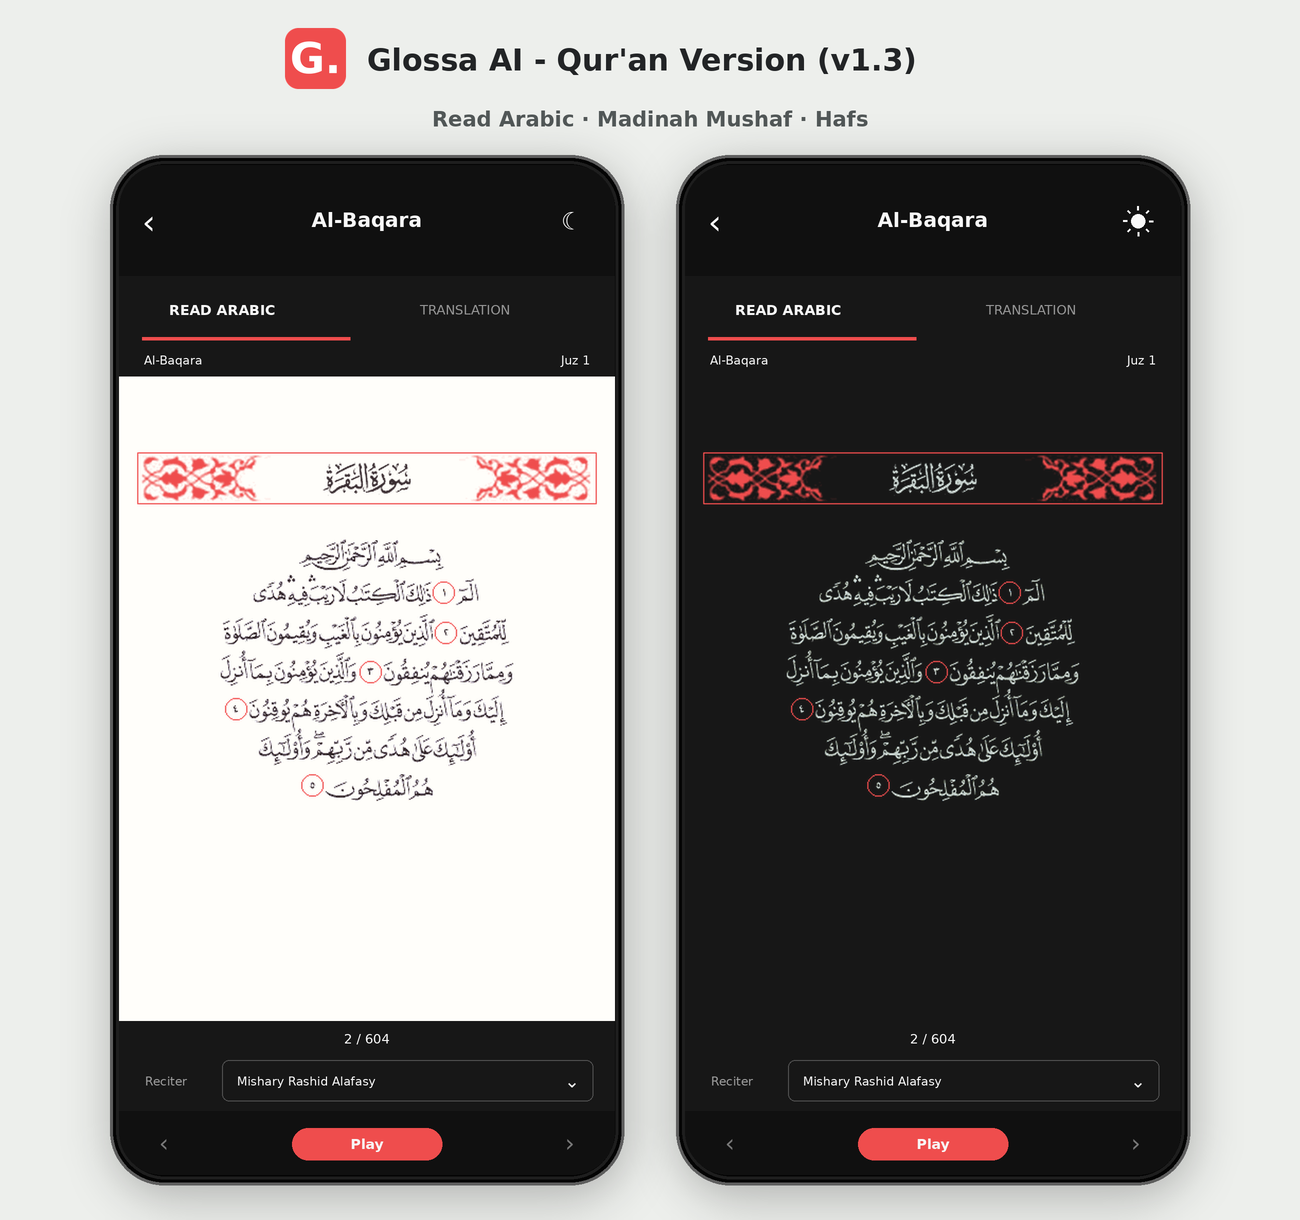
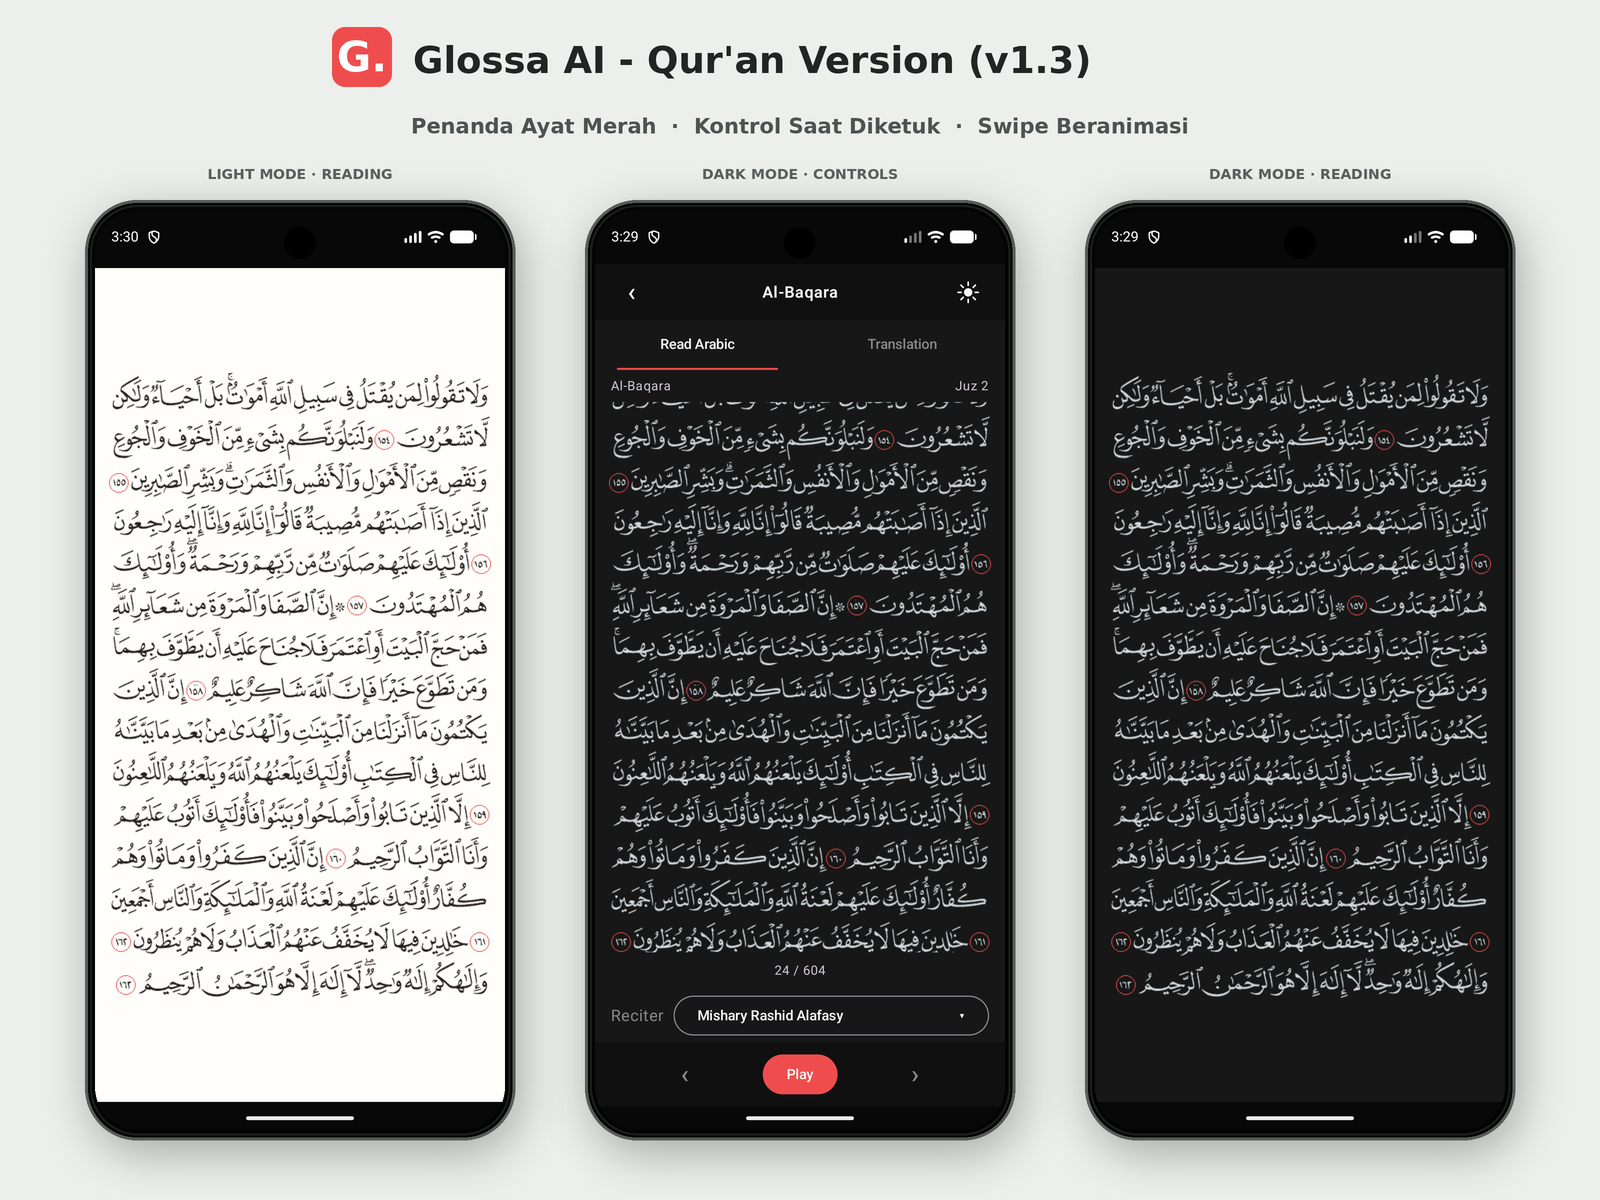
docs: show three app screenshots in v1.3 preview

diff --git a/tools/render_v1_3_preview.py b/tools/render_v1_3_preview.py
@@ -1,136 +1,89 @@
-"""Render the v1.3 light/dark reading preview from bundled app artwork.
+"""Combine three user-supplied app screenshots into the v1.3 preview.
 
-This is a visual mockup of the controls-shown state, not a device screenshot.
-The Qur'an page is composited from the same numbered PNG the app displays;
-the dark palette mirrors MushafNightPalette.convert.
+The screenshots are resized uniformly and clipped only at the rounded phone
+corners. Their Qur'an text and controls are never reconstructed or retouched.
 """
 
 from pathlib import Path
 
-import numpy as np
 from PIL import Image, ImageDraw, ImageFilter, ImageFont
 
 
 ROOT = Path(__file__).resolve().parent.parent
 DESTINATION = ROOT / "preview/glossa-quran-v1.3-preview.png"
+SOURCES = ROOT / "preview/source-v1.3"
 SCALE = 2
-WIDTH, HEIGHT = 1300, 1220
-RED = (239, 77, 77)
-SURFACE = (16, 16, 16)
-CARD = (23, 23, 23)
-WHITE = (248, 248, 248)
+WIDTH, HEIGHT = 1600, 1200
 FONT = "/usr/share/fonts/truetype/dejavu/DejaVuSans.ttf"
 BOLD = "/usr/share/fonts/truetype/dejavu/DejaVuSans-Bold.ttf"
 
 
+def at(*values):
+    return tuple(round(value * SCALE) for value in values)
+
+
 def font(size, bold=False):
-    return ImageFont.truetype(BOLD if bold else FONT, round(size * SCALE))
+    return ImageFont.truetype(BOLD if bold else FONT, size * SCALE)
 
 
-def rect(box):
-    return tuple(round(value * SCALE) for value in box)
+def text(draw, x, y, content, size, color, bold=False, anchor=None):
+    draw.text(at(x, y), content, fill=color, font=font(size, bold), anchor=anchor)
 
 
-def point(x, y):
-    return round(x * SCALE), round(y * SCALE)
+def phone(canvas, x, image_path):
+    y = 200
+    handset_width, handset_height = 430, 940
+    screen_width, screen_height = 410, 920
 
-
-def label(draw, xy, value, size, color, bold=False, anchor=None):
-    draw.text(point(*xy), value, font=font(size, bold), fill=color, anchor=anchor)
-
-
-def dark_artwork(source):
-    data = np.asarray(source.convert("RGBA")).copy()
-    rgb = data[:, :, :3].astype(np.float32)
-    red = (
-        (rgb[:, :, 0] >= 223) & (rgb[:, :, 0] <= 255)
-        & (rgb[:, :, 1] >= 61) & (rgb[:, :, 1] <= 93)
-        & (rgb[:, :, 2] >= 61) & (rgb[:, :, 2] <= 93)
-    )
-    data[:, :, :3] = np.clip(240 - .85 * rgb, 0, 255).astype(np.uint8)
-    data[red, :3] = RED
-    return Image.fromarray(data, "RGBA")
-
-
-def phone(canvas, left, night, artwork):
-    top = 155
-    screen_width, screen_height = 496, 1010
-    screen = Image.new("RGBA", point(screen_width, screen_height), CARD + (255,) if night else (255, 254, 250, 255))
-    draw = ImageDraw.Draw(screen)
-
-    # ContentScale.Fit within the reading page's horizontal and vertical padding.
-    page = dark_artwork(artwork) if night else artwork.convert("RGBA")
-    width = screen_width - 28
-    height = round(page.height * width / page.width)
-    page = page.resize(point(width, height), Image.Resampling.LANCZOS)
-    screen.alpha_composite(page, point((screen_width - width) / 2, (screen_height - height) / 2))
-
-    # Reading chrome appears over the fixed-size page after a single tap.
-    draw.rectangle(rect((0, 0, screen_width, 111)), fill=SURFACE)
-    draw.rectangle(rect((0, 111, screen_width, 211)), fill=CARD)
-    draw.rectangle(rect((0, 856, screen_width, 1010)), fill=CARD)
-    draw.rectangle(rect((0, 946, screen_width, 1010)), fill=SURFACE)
-    label(draw, (screen_width / 2, 55), "Al-Baqara", 20, WHITE, True, "mm")
-    label(draw, (30, 57), "‹", 34, WHITE, anchor="mm")
-    if night:
-        cx, cy = point(screen_width - 43, 56)
-        radius = 7 * SCALE
-        draw.ellipse((cx - radius, cy - radius, cx + radius, cy + radius), fill=WHITE)
-        for dx, dy in ((1, 0), (-1, 0), (0, 1), (0, -1), (.71, .71), (.71, -.71), (-.71, .71), (-.71, -.71)):
-            draw.line((cx + round(dx * 11 * SCALE), cy + round(dy * 11 * SCALE),
-                       cx + round(dx * 15 * SCALE), cy + round(dy * 15 * SCALE)),
-                      fill=WHITE, width=2 * SCALE)
-    else:
-        label(draw, (screen_width - 43, 56), "☾", 24, WHITE, anchor="mm")
-
-    label(draw, (103, 145), "READ ARABIC", 14, WHITE, True, "mm")
-    label(draw, (346, 145), "TRANSLATION", 13, (150, 150, 150), anchor="mm")
-    draw.rectangle(rect((23, 172, 231, 175)), fill=RED)
-    label(draw, (25, 195), "Al-Baqara", 12, WHITE, anchor="lm")
-    label(draw, (screen_width - 25, 195), "Juz 1", 12, WHITE, anchor="rm")
-
-    label(draw, (screen_width / 2, 874), "2 / 604", 13, WHITE, anchor="mm")
-    label(draw, (26, 916), "Reciter", 12, (156, 156, 156), anchor="lm")
-    draw.rounded_rectangle(rect((103, 895, 474, 936)), radius=7 * SCALE,
-                           outline=(80, 80, 80), width=SCALE)
-    label(draw, (118, 916), "Mishary Rashid Alafasy", 12, WHITE, anchor="lm")
-    label(draw, (453, 916), "⌄", 18, WHITE, anchor="mm")
-    label(draw, (45, 978), "‹", 24, (120, 120, 120), anchor="mm")
-    label(draw, (screen_width - 45, 978), "›", 24, (120, 120, 120), anchor="mm")
-    draw.rounded_rectangle(rect((173, 963, 323, 995)), radius=17 * SCALE, fill=RED)
-    label(draw, (screen_width / 2, 979), "Play", 14, WHITE, True, "mm")
-
-    # Rounded handset shell and inset display.
     shadow = Image.new("RGBA", canvas.size)
-    sd = ImageDraw.Draw(shadow)
-    sd.rounded_rectangle(rect((left + 3, top + 12, left + 515, top + 1040)),
-                         radius=55 * SCALE, fill=(0, 0, 0, 70))
-    canvas.alpha_composite(shadow.filter(ImageFilter.GaussianBlur(23 * SCALE)))
-    shell = ImageDraw.Draw(canvas)
-    shell.rounded_rectangle(rect((left, top, left + 514, top + 1030)),
-                            radius=54 * SCALE, fill=(4, 4, 4), outline=(94, 94, 94), width=3 * SCALE)
-    shell.rounded_rectangle(rect((left + 6, top + 6, left + 508, top + 1024)),
-                            radius=49 * SCALE, outline=(30, 30, 30), width=3 * SCALE)
-    mask = Image.new("L", screen.size)
-    ImageDraw.Draw(mask).rounded_rectangle((0, 0, screen.width - 1, screen.height - 1),
-                                           radius=43 * SCALE, fill=255)
-    screen.putalpha(mask)
-    canvas.alpha_composite(screen, point(left + 9, top + 10))
+    ImageDraw.Draw(shadow).rounded_rectangle(
+        at(x + 5, y + 13, x + handset_width + 5, y + handset_height + 13),
+        radius=52 * SCALE, fill=(0, 0, 0, 74)
+    )
+    canvas.alpha_composite(shadow.filter(ImageFilter.GaussianBlur(22 * SCALE)))
+
+    draw = ImageDraw.Draw(canvas)
+    draw.rounded_rectangle(
+        at(x, y, x + handset_width, y + handset_height),
+        radius=52 * SCALE, fill=(4, 4, 4), outline=(89, 91, 91), width=3 * SCALE
+    )
+    draw.rounded_rectangle(
+        at(x + 5, y + 5, x + handset_width - 5, y + handset_height - 5),
+        radius=48 * SCALE, outline=(29, 30, 30), width=2 * SCALE
+    )
+
+    source = Image.open(image_path).convert("RGBA")
+    assert source.size == (1080, 2424), image_path
+    screenshot = source.resize(at(screen_width, screen_height), Image.Resampling.LANCZOS)
+    mask = Image.new("L", screenshot.size)
+    ImageDraw.Draw(mask).rounded_rectangle(
+        (0, 0, screenshot.width - 1, screenshot.height - 1),
+        radius=43 * SCALE, fill=255
+    )
+    screenshot.putalpha(mask)
+    canvas.alpha_composite(screenshot, at(x + 10, y + 10))
 
 
 def main():
-    canvas = Image.new("RGBA", point(WIDTH, HEIGHT), (237, 239, 236, 255))
+    canvas = Image.new("RGBA", at(WIDTH, HEIGHT), (237, 239, 236, 255))
     draw = ImageDraw.Draw(canvas)
     icon = Image.open(ROOT / "design/glossa-icon-128.png").convert("RGBA")
-    canvas.alpha_composite(icon.resize(point(61, 61), Image.Resampling.LANCZOS), point(285, 28))
-    label(draw, (367, 60), "Glossa AI - Qur'an Version (v1.3)", 30, (34, 36, 38), True, "lm")
-    label(draw, (650, 119), "Read Arabic · Madinah Mushaf · Hafs", 21,
-          (81, 87, 87), True, "mm")
-    artwork = Image.open(ROOT / "app/src/main/assets/mushaf/2.png").convert("RGBA")
-    phone(canvas, 110, False, artwork)
-    phone(canvas, 676, True, artwork)
+    canvas.alpha_composite(icon.resize(at(60, 60), Image.Resampling.LANCZOS), at(332, 27))
+    text(draw, 413, 60, "Glossa AI - Qur'an Version (v1.3)", 37,
+         (34, 36, 38), bold=True, anchor="lm")
+    text(draw, WIDTH / 2, 126,
+         "Penanda Ayat Merah  ·  Kontrol Saat Diketuk  ·  Swipe Beranimasi",
+         21, (77, 83, 83), bold=True, anchor="mm")
+
+    for x, name, image_path in (
+        (85, "LIGHT MODE · READING", SOURCES / "light-reading.png"),
+        (585, "DARK MODE · CONTROLS", SOURCES / "dark-controls.png"),
+        (1085, "DARK MODE · READING", SOURCES / "dark-reading.png"),
+    ):
+        text(draw, x + 215, 174, name, 14, (91, 96, 96), bold=True, anchor="mm")
+        phone(canvas, x, image_path)
+
     result = canvas.convert("RGB").resize((WIDTH, HEIGHT), Image.Resampling.LANCZOS)
-    DESTINATION.parent.mkdir(parents=True, exist_ok=True)
     result.save(DESTINATION, optimize=True)
     print(DESTINATION)
 

diff --git a/README.md b/README.md
@@ -13,7 +13,7 @@ Android reader with Uthmani Arabic text (Hafs), English and Indonesian translati
 
 ## Preview
 
-The [v1.3 reading preview](preview/glossa-quran-v1.3-preview.png) shows page 2 in both themes with the reading controls visible after a tap. It is a mockup composed from the bundled Mushaf artwork, not a device screenshot.
+The [v1.3 reading preview](preview/glossa-quran-v1.3-preview.png) combines three user-supplied app screenshots of page 24: light reading without controls, dark reading with controls, and dark reading without controls. The screenshots are only resized and placed within phone mockups; the Arabic content and controls are not recreated.
 
 ## Run
 
